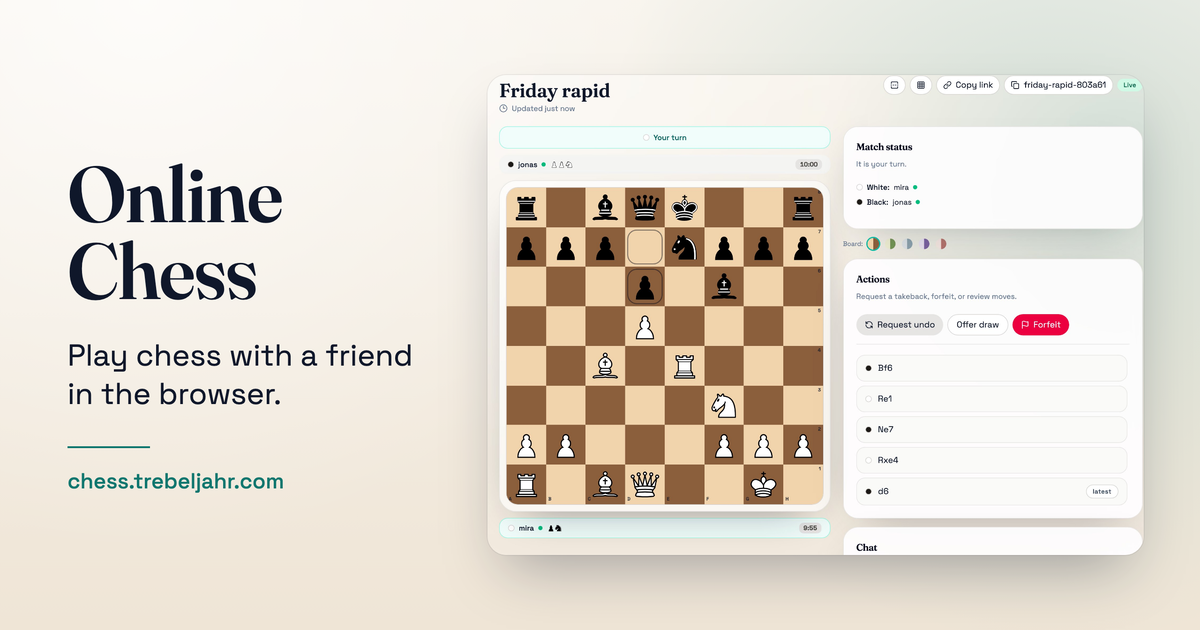
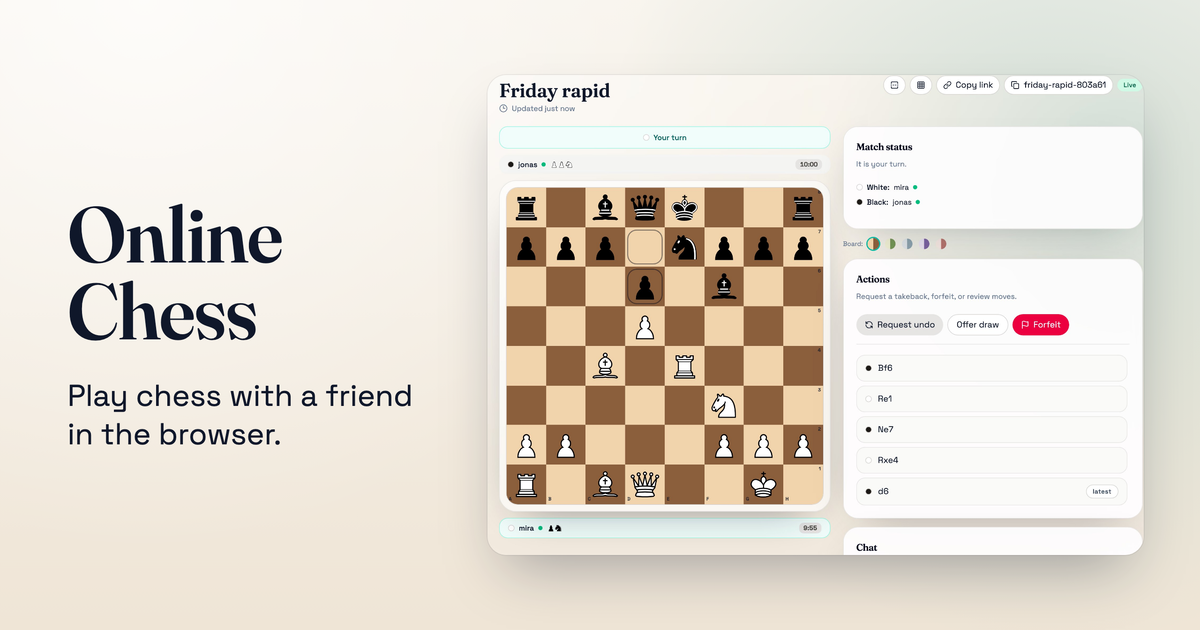
Leave the URL off the og:image wordmark card
Rico prefers link-preview cards without a URL on them; the preview already
shows the link. The name and line re-centre where the text block was.

Changed region(s): [[0.0308, 0.2413, 0.3392, 0.7238], [0.0617, 0.754, 0.2467, 0.7841]]

diff --git a/docs/marketing/README.md b/docs/marketing/README.md
@@ -44,7 +44,7 @@ down to exactly 1200×630 with ImageMagick.
 
 | File | Shows |
 | --- | --- |
-| `social-preview/og-wordmark.png` | Card A: wordmark, one line and the URL beside the desktop game capture. |
+| `social-preview/og-wordmark.png` | Card A: wordmark and one line beside the desktop game capture, without the URL. |
 | `social-preview/og-clean.png` | No text: the same game crop, larger, centred on the cream background. |
 
 ## Rebuilding
